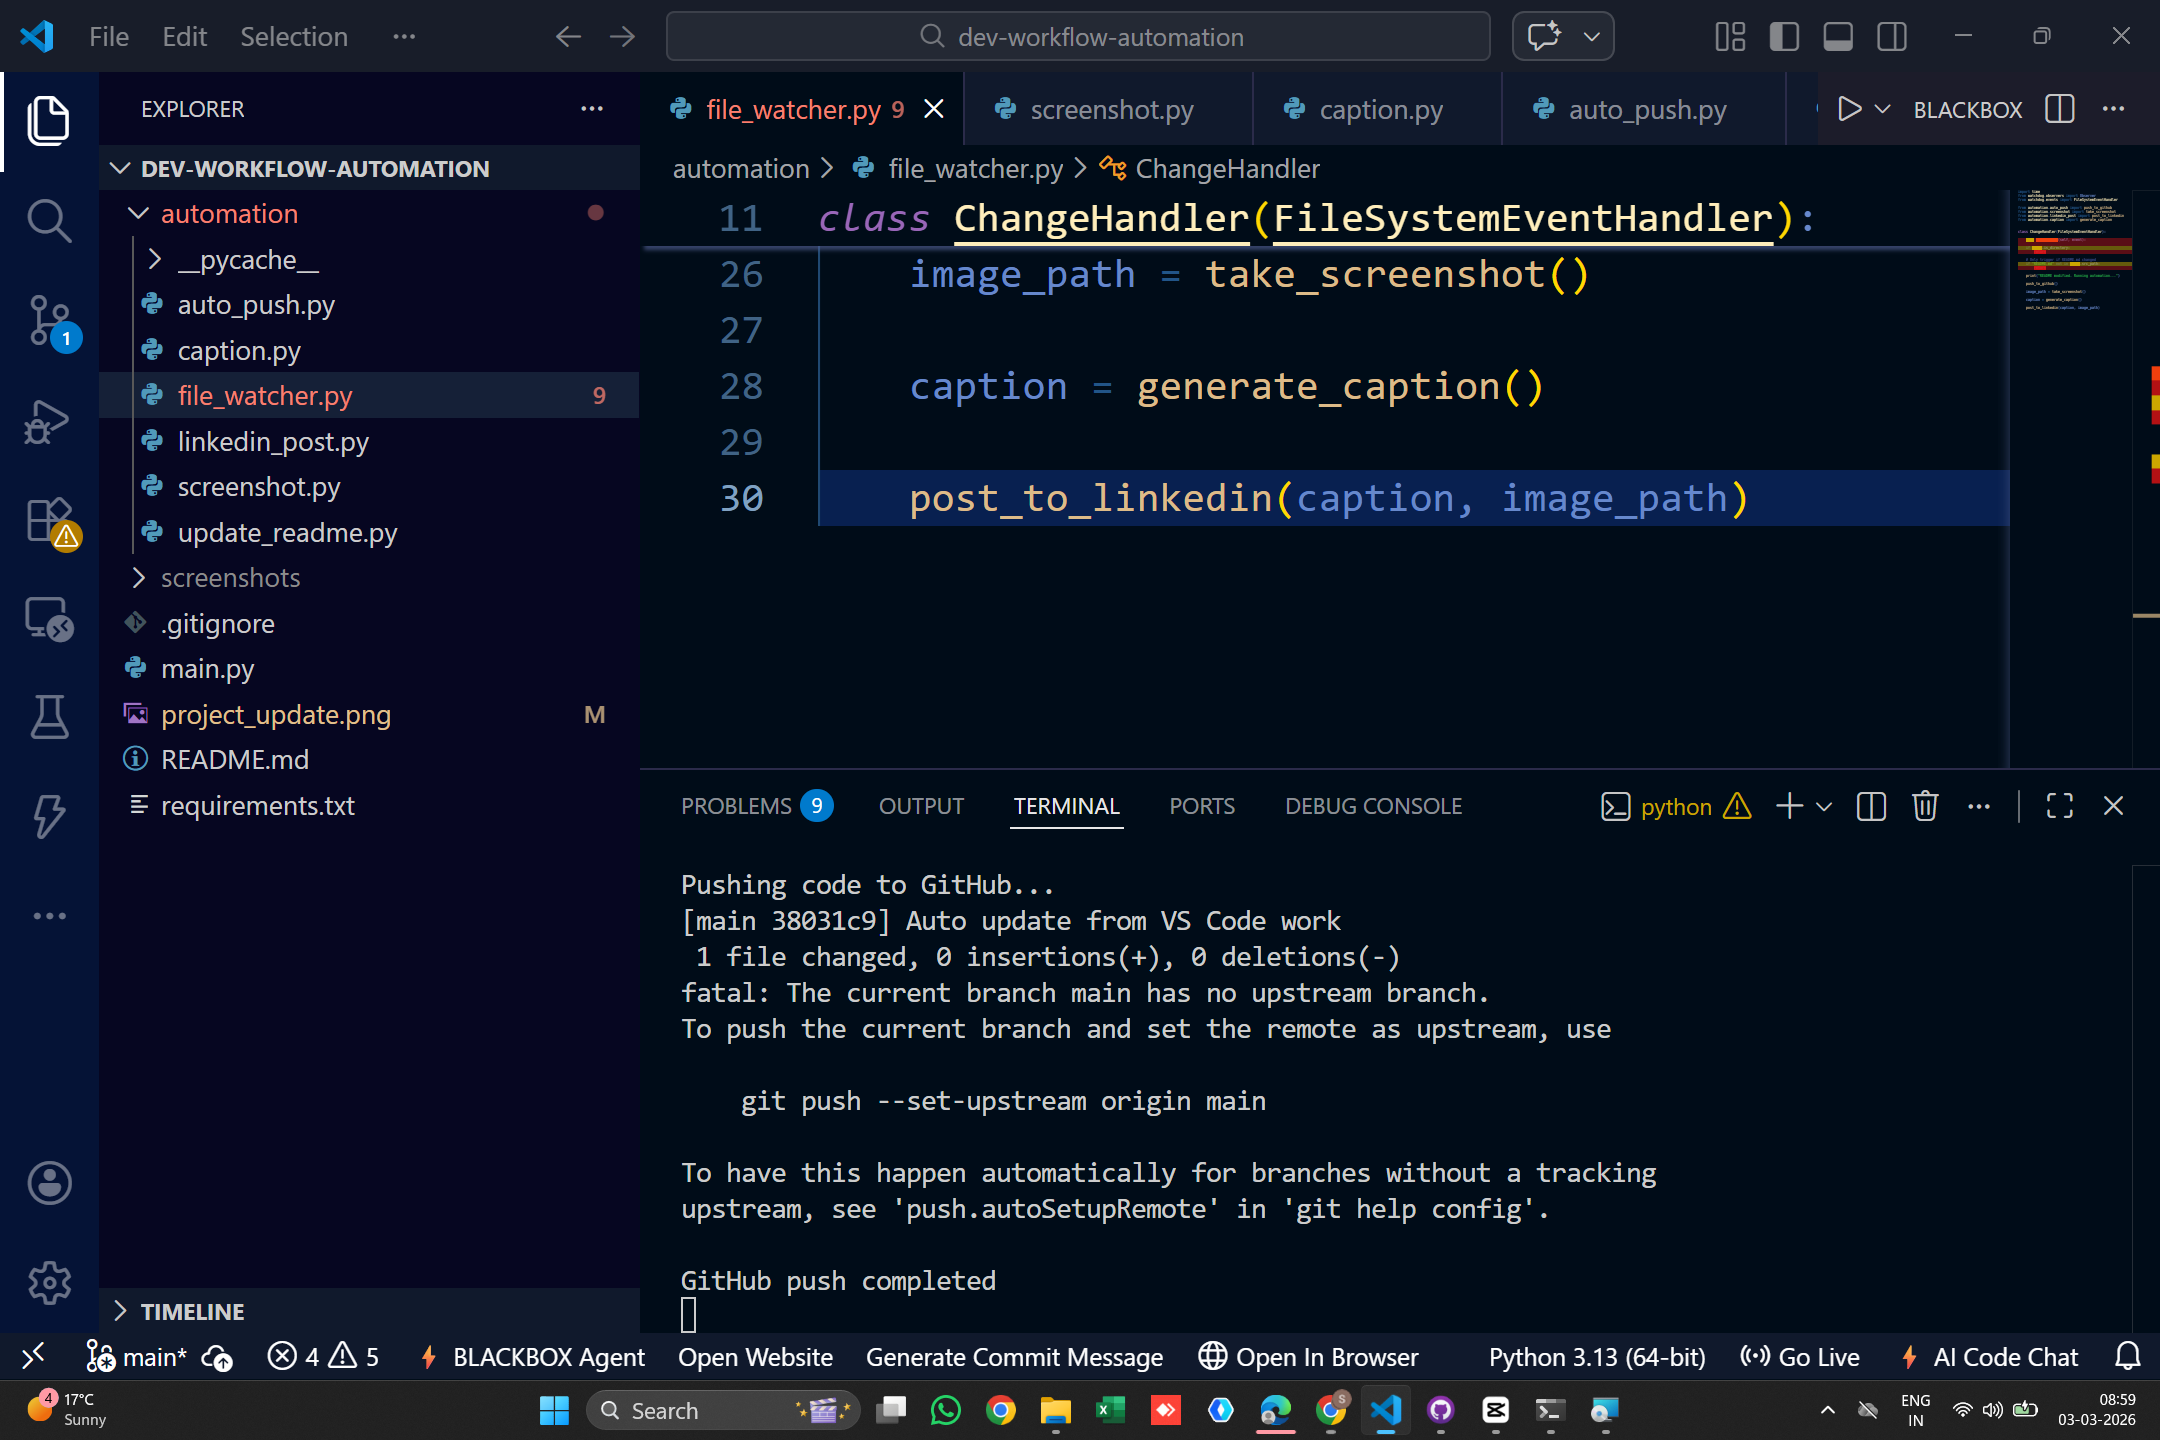
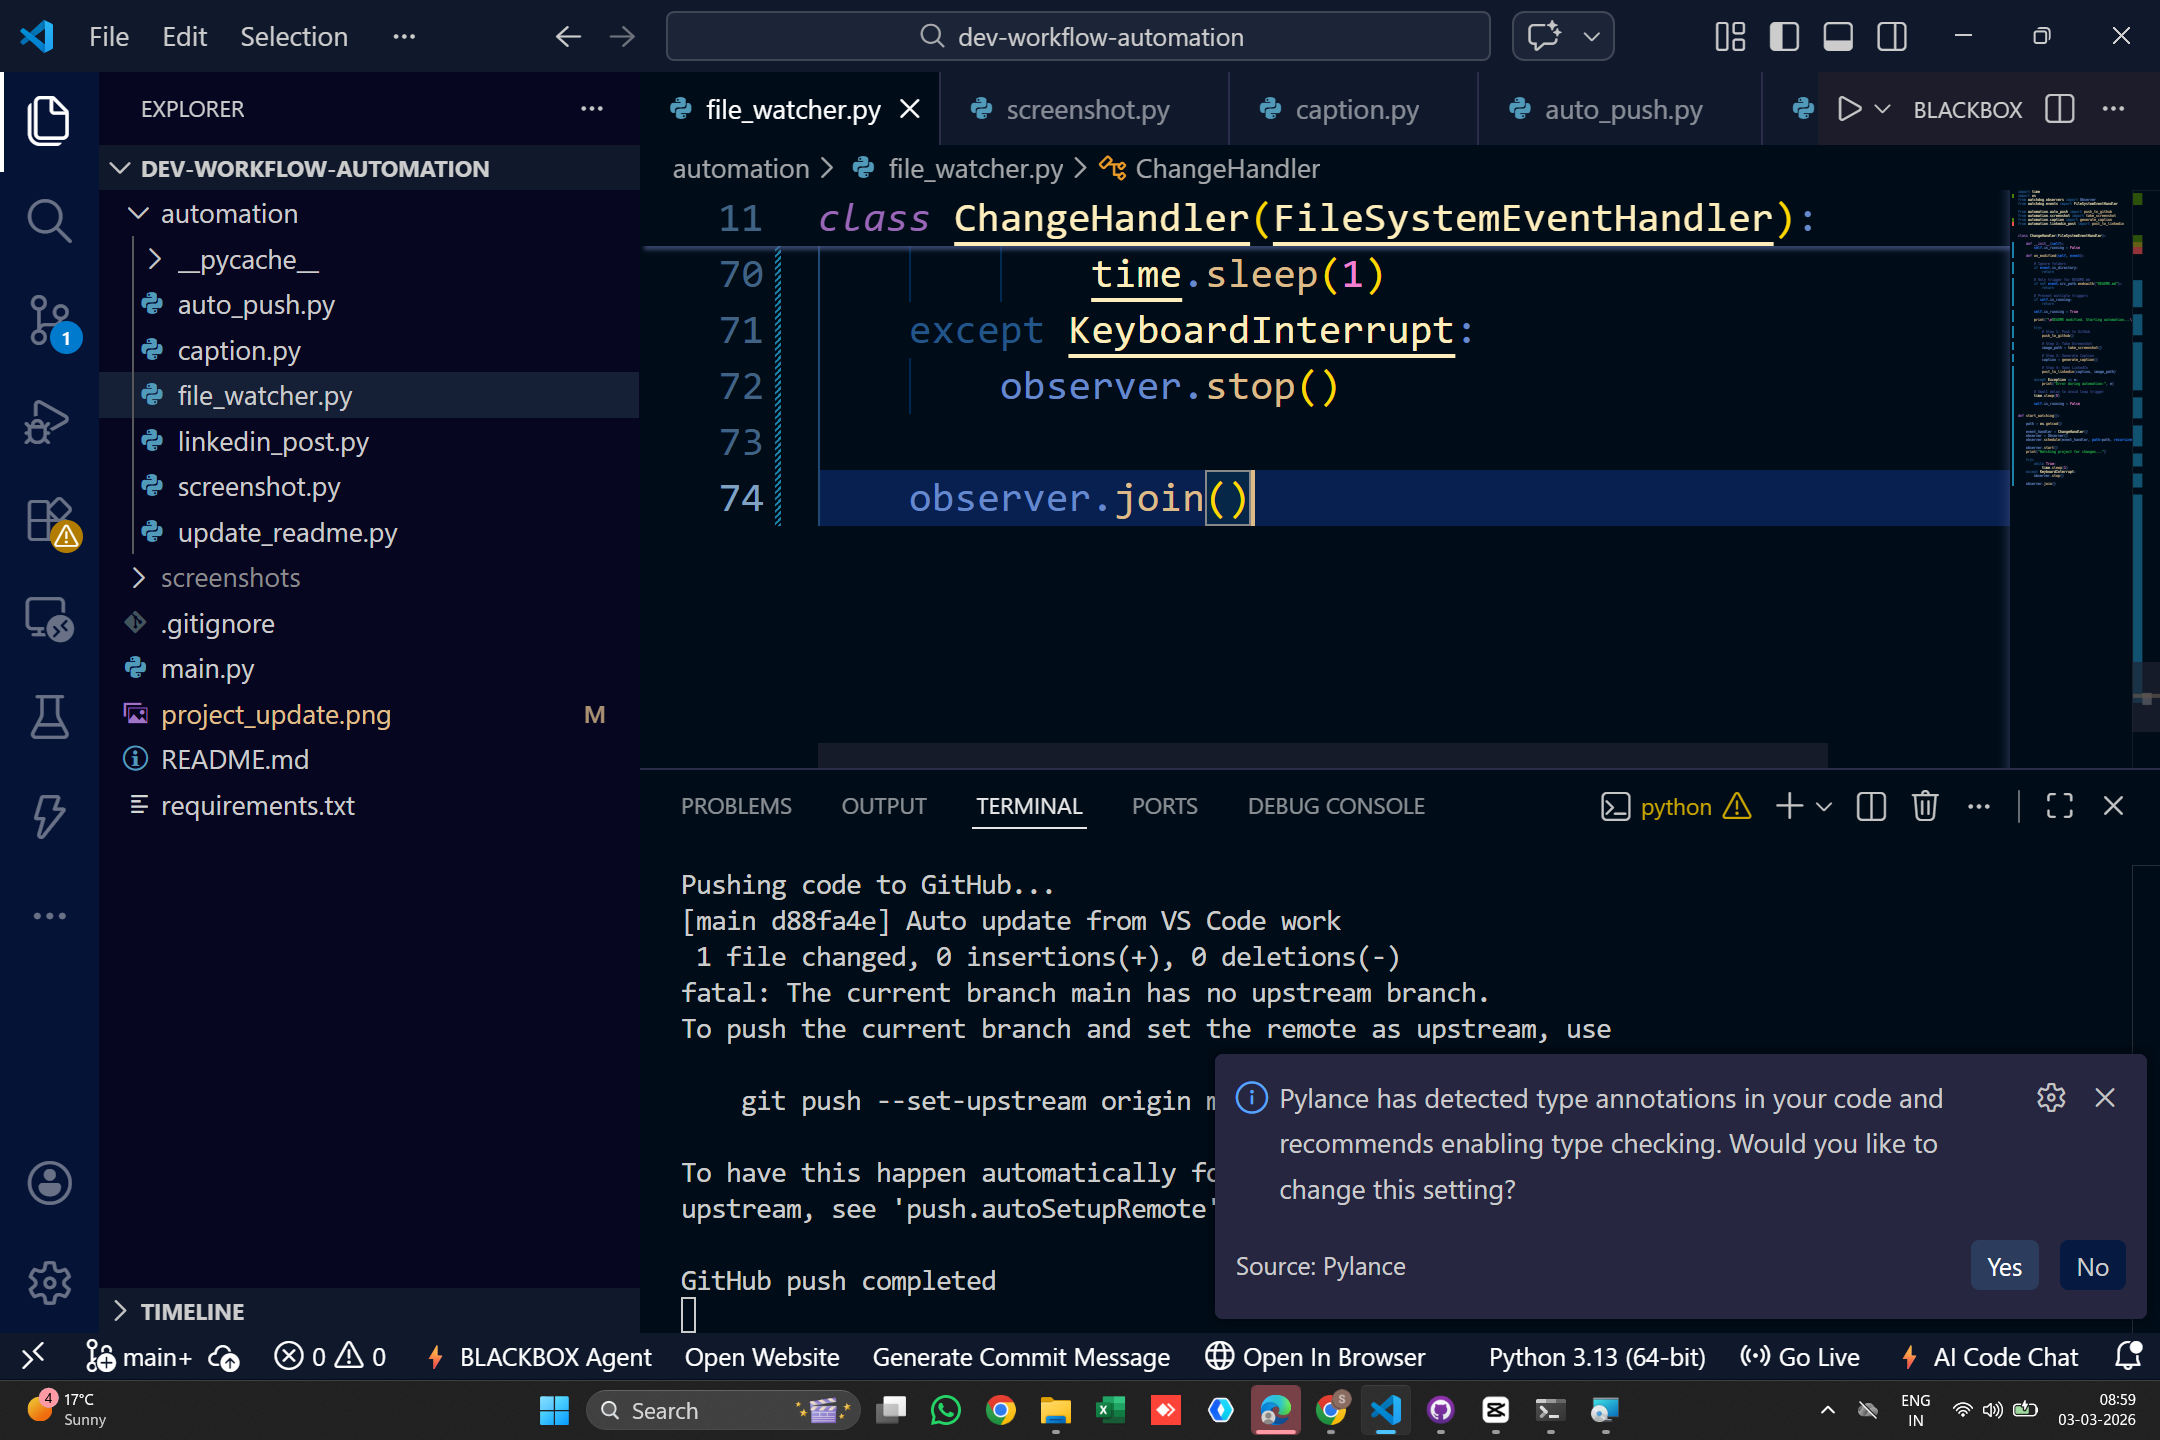
Auto update from VS Code work

diff --git a/automation/file_watcher.py b/automation/file_watcher.py
@@ -1,30 +1,74 @@
 import time
+import os
 from watchdog.observers import Observer
 from watchdog.events import FileSystemEventHandler
 
 from automation.auto_push import push_to_github
 from automation.screenshot import take_screenshot
-from automation.linkedin_post import post_to_linkedin
 from automation.caption import generate_caption
+from automation.linkedin_post import post_to_linkedin
 
 
 class ChangeHandler(FileSystemEventHandler):
 
-    ddef on_modified(self, event):
+    def __init__(self):
+        self.is_running = False
 
-    if event.is_directory:
-        return
+    def on_modified(self, event):
 
-    # Only trigger if README.md changed
-    if "README.md" not in event.src_path:
-        return
+        # Ignore folders
+        if event.is_directory:
+            return
 
-    print("README modified. Running automation...")
+        # Only trigger for README.md
+        if not event.src_path.endswith("README.md"):
+            return
 
-    push_to_github()
+        # Prevent multiple triggers
+        if self.is_running:
+            return
 
-    image_path = take_screenshot()
+        self.is_running = True
 
-    caption = generate_caption()
+        print("\nREADME modified. Starting automation...\n")
 
-    post_to_linkedin(caption, image_path)
+        try:
+            # Step 1: Push to GitHub
+            push_to_github()
+
+            # Step 2: Take Screenshot
+            image_path = take_screenshot()
+
+            # Step 3: Generate Caption
+            caption = generate_caption()
+
+            # Step 4: Open LinkedIn
+            post_to_linkedin(caption, image_path)
+
+        except Exception as e:
+            print("Error during automation:", e)
+
+        # Small delay to avoid loop trigger
+        time.sleep(5)
+
+        self.is_running = False
+
+
+def start_watching():
+
+    path = os.getcwd()
+
+    event_handler = ChangeHandler()
+    observer = Observer()
+    observer.schedule(event_handler, path=path, recursive=True)
+
+    observer.start()
+    print("Watching project for changes...")
+
+    try:
+        while True:
+            time.sleep(1)
+    except KeyboardInterrupt:
+        observer.stop()
+
+    observer.join()
